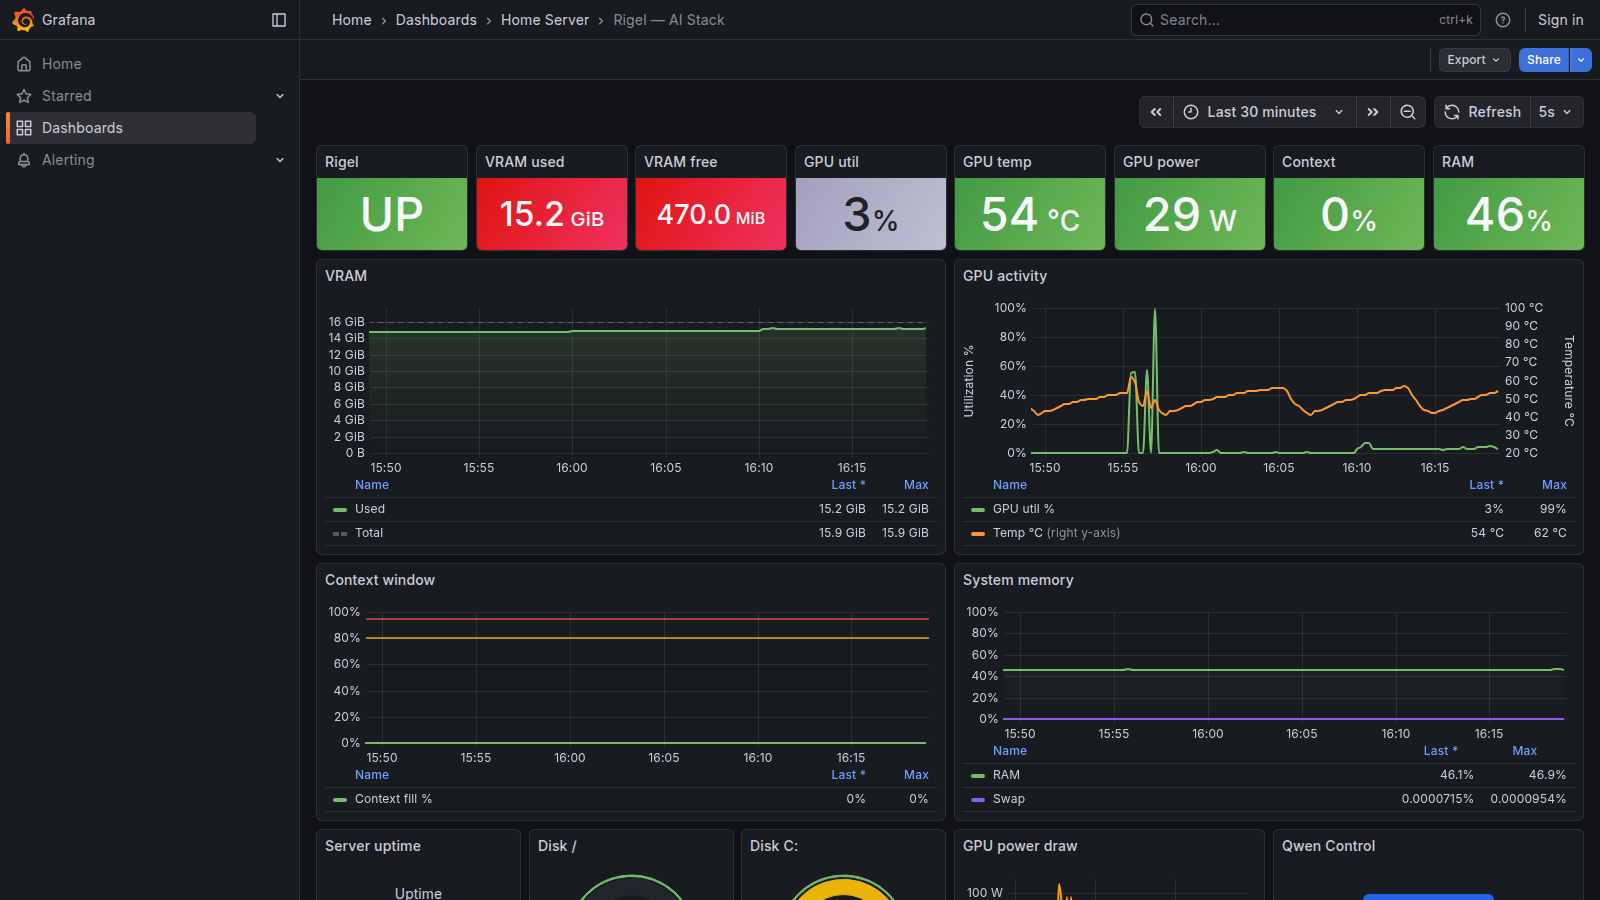
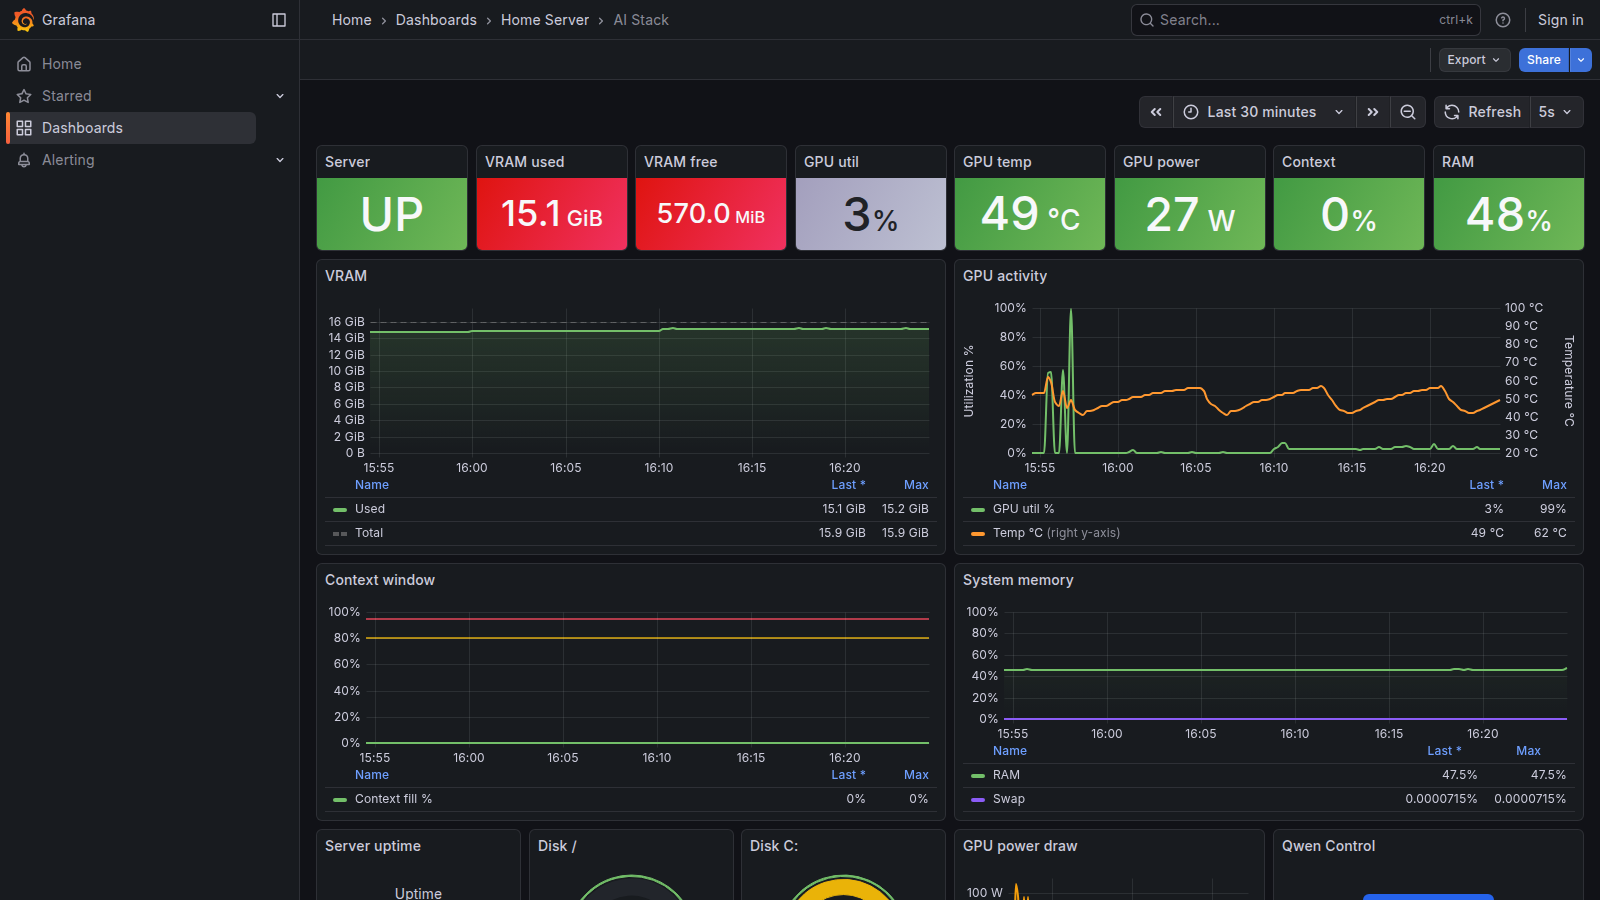
Remove internal name, fix em dashes, refresh screenshot

diff --git a/README.md b/README.md
@@ -1,27 +1,27 @@
-# Rigel — AI Stack Dashboard
+# AI Stack Home Server Dashboard
 
-Local Prometheus + Grafana monitoring for the WSL Qwen/llama-server stack.
+Local Prometheus + Grafana monitoring for the WSL qwen/llama-server stack.
 
-![Rigel AI Stack Dashboard](docs/assets/qwen-dashboard.png)
+![AI Stack Home Server Dashboard](docs/assets/qwen-dashboard.png)
 
 ## What it shows
 
-**Status bar (top)** — 8 always-visible stats: server state (UP / LOADING / DOWN), VRAM used, VRAM free, GPU utilization, GPU temperature, GPU power draw, context window fill, system RAM.
+**Status bar (top):** 8 always-visible stats: server state (UP / LOADING / DOWN), VRAM used, VRAM free, GPU utilization, GPU temperature, GPU power draw, context window fill, system RAM.
 
 **Graphs:**
-- **VRAM** — used bytes vs. total (reference line), auto-scales to GB
-- **GPU activity** — utilization % on left axis, temperature on right axis (dual scale, no overlap)
-- **Context window** — context fill % over time, shows session start/end and context resets
-- **System memory** — RAM % and swap % on a shared 0–100% axis
+- **VRAM:** used bytes vs. total (reference line), auto-scales to GB
+- **GPU activity:** utilization % on left axis, temperature on right axis (dual scale, no overlap)
+- **Context window:** context fill % over time, shows session start/end and context resets
+- **System memory:** RAM % and swap % on a shared 0-100% axis
 
-**Bottom row** — server uptime, disk gauges for `/` and `C:`, GPU power sparkline, control panel button.
+**Bottom row:** server uptime, disk gauges for `/` and `C:`, GPU power sparkline, control panel button.
 
 ## Stack
 
-- `qwen_exporter.py` on `127.0.0.1:9108` — scrapes nvidia-smi, /proc, llama-server /health and /slots
-- `qwen_control.py` on `127.0.0.1:9110` — start/stop/restart UI
-- Prometheus on `127.0.0.1:9090` — 5s scrape interval, 15d retention
-- Grafana on `127.0.0.1:3000` — auto-provisioned dashboard, anonymous viewer access
+- `qwen_exporter.py` on `127.0.0.1:9108` -- scrapes nvidia-smi, /proc, llama-server /health and /slots
+- `qwen_control.py` on `127.0.0.1:9110` -- start/stop/restart UI
+- Prometheus on `127.0.0.1:9090` -- 5s scrape interval, 15d retention
+- Grafana on `127.0.0.1:3000` -- auto-provisioned dashboard, anonymous viewer access
 
 The exporter is read-only. It does not export prompts, responses, API keys, or request bodies.
 